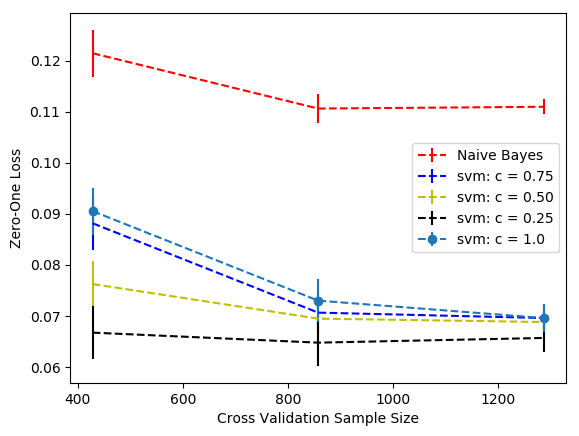
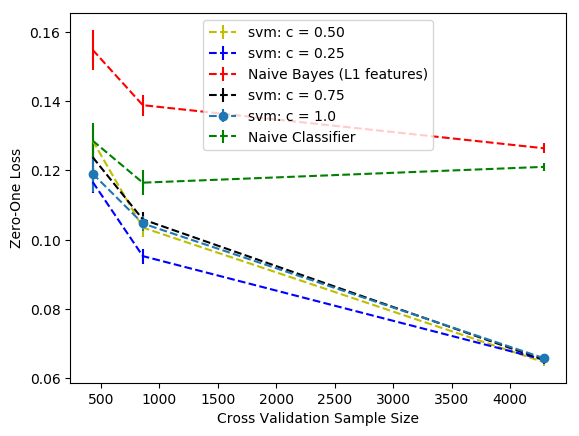
Added naive bayes and naive classifiers

diff --git a/main.py b/main.py
@@ -22,39 +22,17 @@ def k_fold_cross_validation(tr_data,tr_labels,split_number):
 
     # zero-one losses for naive bayes (nb) and support vector machine (svm)
 
-    nb1 = ClassifierResult('Naive Bayes', [])
+    nb1 = ClassifierResult('Naive Bayes (L1 features)', [])
     svm1 = SVMClassifierResult('svm: c = 1.0', [], [])
     svm2 = SVMClassifierResult('svm: c = 0.75', [], [])
     svm3 = SVMClassifierResult('svm: c = 0.50', [], [])
     svm4 = SVMClassifierResult('svm: c = 0.25', [], [])
-
-    # grab what size the chunks should be
-    chunk = int(len(tr_data)/split_number)
-
-    # set the start and end index
-    te_start_index = 0
-    te_end_index = chunk
-
-    # set the start and end index
-    tr_start_index = te_end_index
-    tr_end_index = len(tr_data)
+    naive = ClassifierResult('Naive Classifier', [])
 
 
     for i in range(split_number):
-
         cv_tr_data,cv_tr_labels,cv_te_data,cv_te_labels\
             = split_data(tr_data,tr_labels,split_number,i)
-
-        ## add bias terms -- do we need it?
-        # cv_tr_data = add_bias_term(cv_tr_data)
-        # cv_te_data = add_bias_term(cv_te_data)
-
-        ## NAIVE DECLARED HERE TO BE INIT-ed WITH THE DATA FOR CROSS VALIDATION
-        nb = MultinomialNB()
-        nb.fit(cv_tr_data,cv_tr_labels)
-        preds = nb.predict(cv_te_data)
-        loss = zero_one_loss(preds,cv_te_labels)        
-        nb1.zero_one_loss += [loss]
         
         ## SVM DECLARED HERE TO BE INIT-ed WITH THE DATA FOR CROSS VALIDATION
         svm = LinearSVC(penalty='l1',C=1.0,dual=False)
@@ -88,7 +66,19 @@ def k_fold_cross_validation(tr_data,tr_labels,split_number):
         svm4.zero_one_loss += [loss]
         svm4.params += [svm.coef_.ravel()]
 
-    return nb1, svm1, svm2, svm3, svm4
+        nb = MultinomialNB()
+        params_to_use = [i for i,x in enumerate(svm_c2.coef_.ravel()) if x != 0]
+        nb.fit(cv_tr_data[:, list(params_to_use)],cv_tr_labels)
+        preds = nb.predict(cv_te_data[:, list(params_to_use)])
+        loss = zero_one_loss(preds,cv_te_labels)        
+        nb1.zero_one_loss += [loss]
+
+        # Naive
+        preds = [2 for x in range(len(cv_te_labels))]
+        loss = zero_one_loss(preds, cv_te_labels)
+        naive.zero_one_loss += [loss]
+
+    return nb1, svm1, svm2, svm3, svm4, naive
 
 def plot_experiment_losses(model_losses, xaxis_var, xlabel, cv_split_number, line_types, fn = None):
     print("-=-=-=-=-=-=-=-=-\nPLOTTING LOSS VALUES\n-=-=-=-=-=-=-=-=-")
@@ -160,19 +150,8 @@ def test_model():
 
 def greedy_subset_svm(tr_data, tr_labels, num_features, split_number):
     nb1 = ClassifierResult('GS Naive Bayes', [])
-    svm1 = SVMClassifierResult('GS svm: c = 0.25', [], [])
-
-    # grab what size the chunks should be
-    chunk = int(len(tr_data)/split_number)
-
-    # set the start and end index
-    te_start_index = 0
-    te_end_index = chunk
-
-    # set the start and end index
-    tr_start_index = te_end_index
-    tr_end_index = len(tr_data)
-
+    svm1 = SVMClassifierResult('GS svm: c = 0.5', [], [])
+    naive = ClassifierResult('Naive Classifier', [])
 
     for i in range(split_number):
         print('Fold: ' + str(i))
@@ -185,13 +164,6 @@ def greedy_subset_svm(tr_data, tr_labels, num_features, split_number):
         cv_training_labels = cv_tr_labels[:int(len(cv_tr_labels)*.9)]
         cv_validation_data = np.array(cv_tr_data[int(len(cv_tr_data)*.9):])
         cv_validation_labels = cv_tr_labels[int(len(cv_tr_labels)*.9):]
-
-        ## NAIVE DECLARED HERE TO BE INIT-ed WITH THE DATA FOR CROSS VALIDATION
-        # nb = MultinomialNB()
-        # nb.fit(cv_tr_data,cv_tr_labels)
-        # preds = nb.predict(cv_te_data)
-        # loss = zero_one_loss(preds,cv_te_labels)        
-        # nb1.zero_one_loss += [loss]
         
         params_to_keep = set()
         for j in range(num_features):
@@ -201,7 +173,7 @@ def greedy_subset_svm(tr_data, tr_labels, num_features, split_number):
             best_loss = 1.0
             for k in range(cv_training_data.shape[1]):
                 if k in params_to_keep: continue
-                svm = LinearSVC(penalty = 'l2', C = 0.25, dual=False)
+                svm = LinearSVC(penalty = 'l2', C = 0.5, dual=False)
                 data = np.zeros(cv_training_data.shape)
                 params_to_keep.add(k)
                 # print('Trying: ' + str(params_to_keep))
@@ -217,7 +189,7 @@ def greedy_subset_svm(tr_data, tr_labels, num_features, split_number):
             params_to_keep.add(best_feature)
         
         # We now have the best features
-        svm = LinearSVC(penalty = 'l2', C = 0.25, dual=False)
+        svm = LinearSVC(penalty = 'l2', C = 0.5, dual=False)
         data = np.zeros(cv_training_data.shape)
         data[:, list(params_to_keep)] = cv_training_data[:, list(params_to_keep)]
         svm.fit(data, cv_training_labels)
@@ -226,8 +198,19 @@ def greedy_subset_svm(tr_data, tr_labels, num_features, split_number):
         loss = zero_one_loss(preds, cv_te_labels)
         svm1.zero_one_loss += [loss]
         svm1.params += [svm.coef_.ravel()]
+
+        nb = MultinomialNB()
+        nb.fit(cv_training_data[:, list(params_to_keep)], cv_training_labels)
+        preds = nb.predict(cv_te_data[:, list(params_to_keep)])
+        loss = zero_one_loss(preds,cv_te_labels)        
+        nb1.zero_one_loss += [loss]
+
+        # Naive
+        preds = [2 for x in range(len(cv_te_labels))]
+        loss = zero_one_loss(preds, cv_te_labels)
+        naive.zero_one_loss += [loss]
     
-    return nb1, svm1
+    return nb1, svm1, naive
 
 def experiment_2(data, labels, num_features, cv_split_number):
     tr_data = data
@@ -236,10 +219,11 @@ def experiment_2(data, labels, num_features, cv_split_number):
 
     nb_losses = []
     svm_losses = []
+    naive_losses = []
 
     svm_params = []
 
-    data_balance = [0.01, 0.02, 0.03]
+    data_balance = [0.01, 0.02, 0.1]
     for i in data_balance:
         print('Processing: ' + str(i))
 
@@ -248,25 +232,25 @@ def experiment_2(data, labels, num_features, cv_split_number):
         # cross validation labels
         cv_tr_labels = tr_labels[:int(tr_data_size*i)]
 
-        nb, svm = greedy_subset_svm(cv_tr_data, cv_tr_labels, num_features, cv_split_number)
+        nb, svm, naive = greedy_subset_svm(cv_tr_data, cv_tr_labels, num_features, cv_split_number)
 
         nb_losses += [nb.zero_one_loss] # list of lists where each row is cv_split_number
         svm_losses += [svm.zero_one_loss]
+        naive_losses += [naive.zero_one_loss]
 
         svm_params += [svm.params]
     
-    nb_model_losses = {
-        nb.name: nb_losses
-    }
-    svm_model_losses = {
-        svm.name: svm_losses
+    model_losses = {
+        nb.name: nb_losses,
+        svm.name: svm_losses,
+        naive.name: naive_losses
     }
     svm_model_params = {
         svm.name: svm_params
     }
-    write_losses(svm_model_losses,data_balance,"exp2")
+    write_losses(model_losses,data_balance,"exp2")
 
-    return nb_model_losses, svm_model_losses, svm_model_params, np.array(data_balance)*tr_data_size
+    return model_losses, svm_model_params, np.array(data_balance)*tr_data_size
 
     
 def experiment_1(data,labels,cv_split_number):
@@ -279,6 +263,7 @@ def experiment_1(data,labels,cv_split_number):
     svm2_losses = []
     svm3_losses = []
     svm4_losses = []
+    naive_losses = []
 
     svm1_params = []
     svm2_params = []
@@ -287,7 +272,7 @@ def experiment_1(data,labels,cv_split_number):
 
     #data_balance = [0.10,0.20,0.30,0.40,0.50,0.60,0.70,0.80,0.90,1.0]
     #data_balance = [0.01,0.05,0.10]
-    data_balance = [0.01,0.02,0.03]
+    data_balance = [0.01,0.02,0.1]
     for i in data_balance:
         print('Processing: ' + str(i))
         # cross validation training data
@@ -295,13 +280,14 @@ def experiment_1(data,labels,cv_split_number):
         # cross validation labels
         cv_tr_labels = tr_labels[:int(tr_data_size*i)]
 
-        nb1, svm1, svm2, svm3, svm4 = k_fold_cross_validation(cv_tr_data, cv_tr_labels, cv_split_number)
+        nb1, svm1, svm2, svm3, svm4, naive = k_fold_cross_validation(cv_tr_data, cv_tr_labels, cv_split_number)
 
         nb_losses += [nb1.zero_one_loss] # list of lists where each row is cv_split_number
         svm1_losses += [svm1.zero_one_loss]
         svm2_losses += [svm2.zero_one_loss]
         svm3_losses += [svm3.zero_one_loss]
         svm4_losses += [svm4.zero_one_loss]
+        naive_losses += [naive.zero_one_loss]
 
         svm1_params += [svm1.params]
         svm2_params += [svm2.params]
@@ -313,6 +299,7 @@ def experiment_1(data,labels,cv_split_number):
                     svm2.name: svm2_losses,
                     svm3.name: svm3_losses,
                     svm4.name: svm4_losses,
+                    naive.name: naive_losses
     }
     model_params = {
         svm1.name: svm1_params,
@@ -334,7 +321,7 @@ if __name__ == "__main__":
         exp_no = sys.argv[2]
 
         cv_split_number = 10
-        num_features = 5
+        num_features = 10
         fast = False
         tr_data,tr_labels = get_data(sys.argv[1])
 
@@ -346,13 +333,13 @@ if __name__ == "__main__":
         if fast:
             no_examples = 50
         
-        line_types = ['y--', 'b--', 'r--', 'k--', 'o--']
+        line_types = ['y--', 'b--', 'r--', 'k--', 'o--', 'g--']
 
         if exp_no == "1" or exp_no == "-1":
             model_losses, model_params, cv_training_sizes = experiment_1(tr_data, tr_labels, cv_split_number)
             plot_experiment_losses(model_losses, cv_training_sizes, 'Cross Validation Sample Size', cv_split_number, line_types, './figures/exp_1_losses.png')
             plot_experiment_params(model_params, cv_training_sizes, cv_split_number, './figures/exp_1_params_{}.png')
         if exp_no == "2" or exp_no == "-2":
-            nb_model_losses, svm_model_losses, svm_model_params, cv_training_sizes = experiment_2(tr_data, tr_labels, num_features, cv_split_number)
-            plot_experiment_losses(svm_model_losses, cv_training_sizes, 'Cross Validation Sample Size', cv_split_number, line_types, './figures/exp_2_losses.png')
+            model_losses, svm_model_params, cv_training_sizes = experiment_2(tr_data, tr_labels, num_features, cv_split_number)
+            plot_experiment_losses(model_losses, cv_training_sizes, 'Cross Validation Sample Size', cv_split_number, line_types, './figures/exp_2_losses.png')
             plot_experiment_params(svm_model_params, cv_training_sizes, cv_split_number, './figures/exp_2_params_{}.png')
